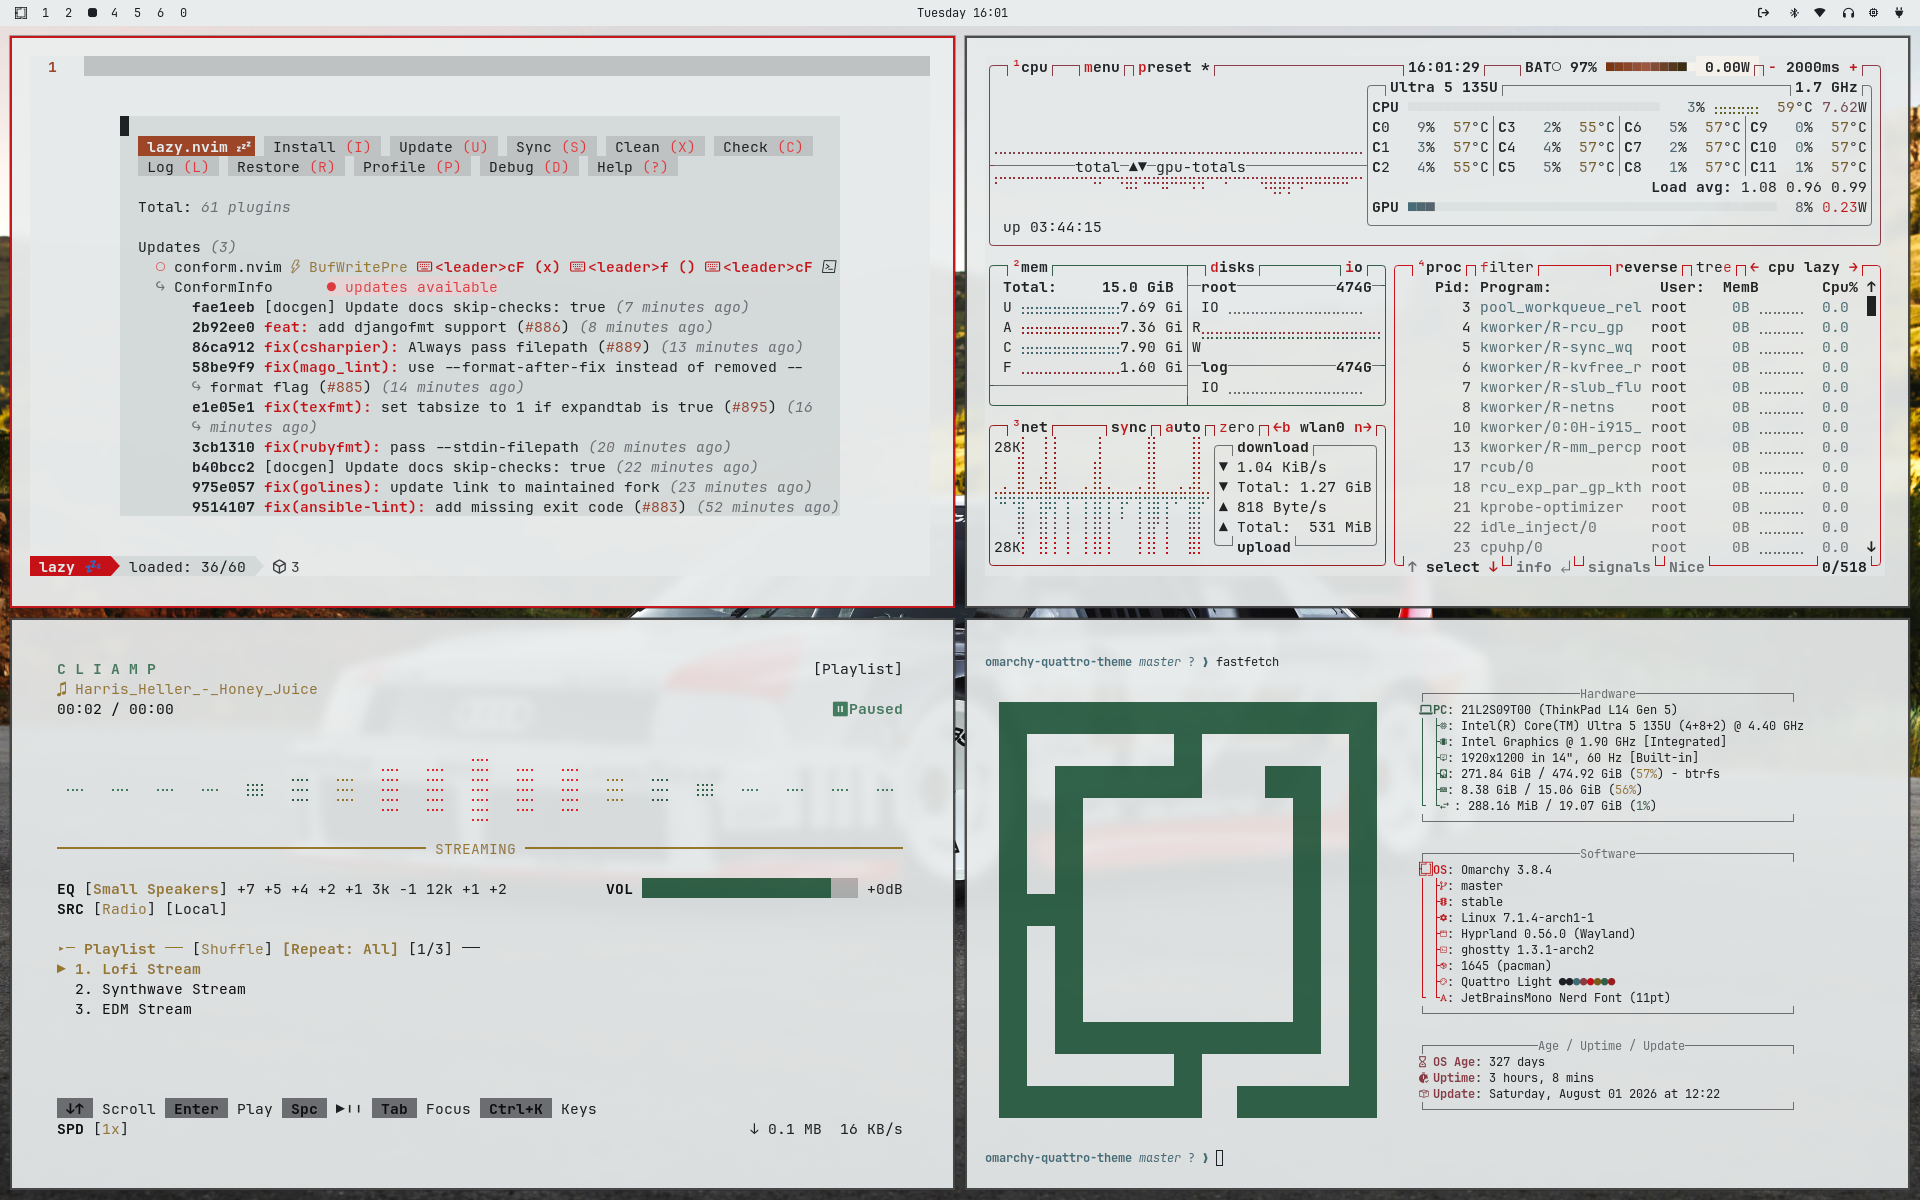
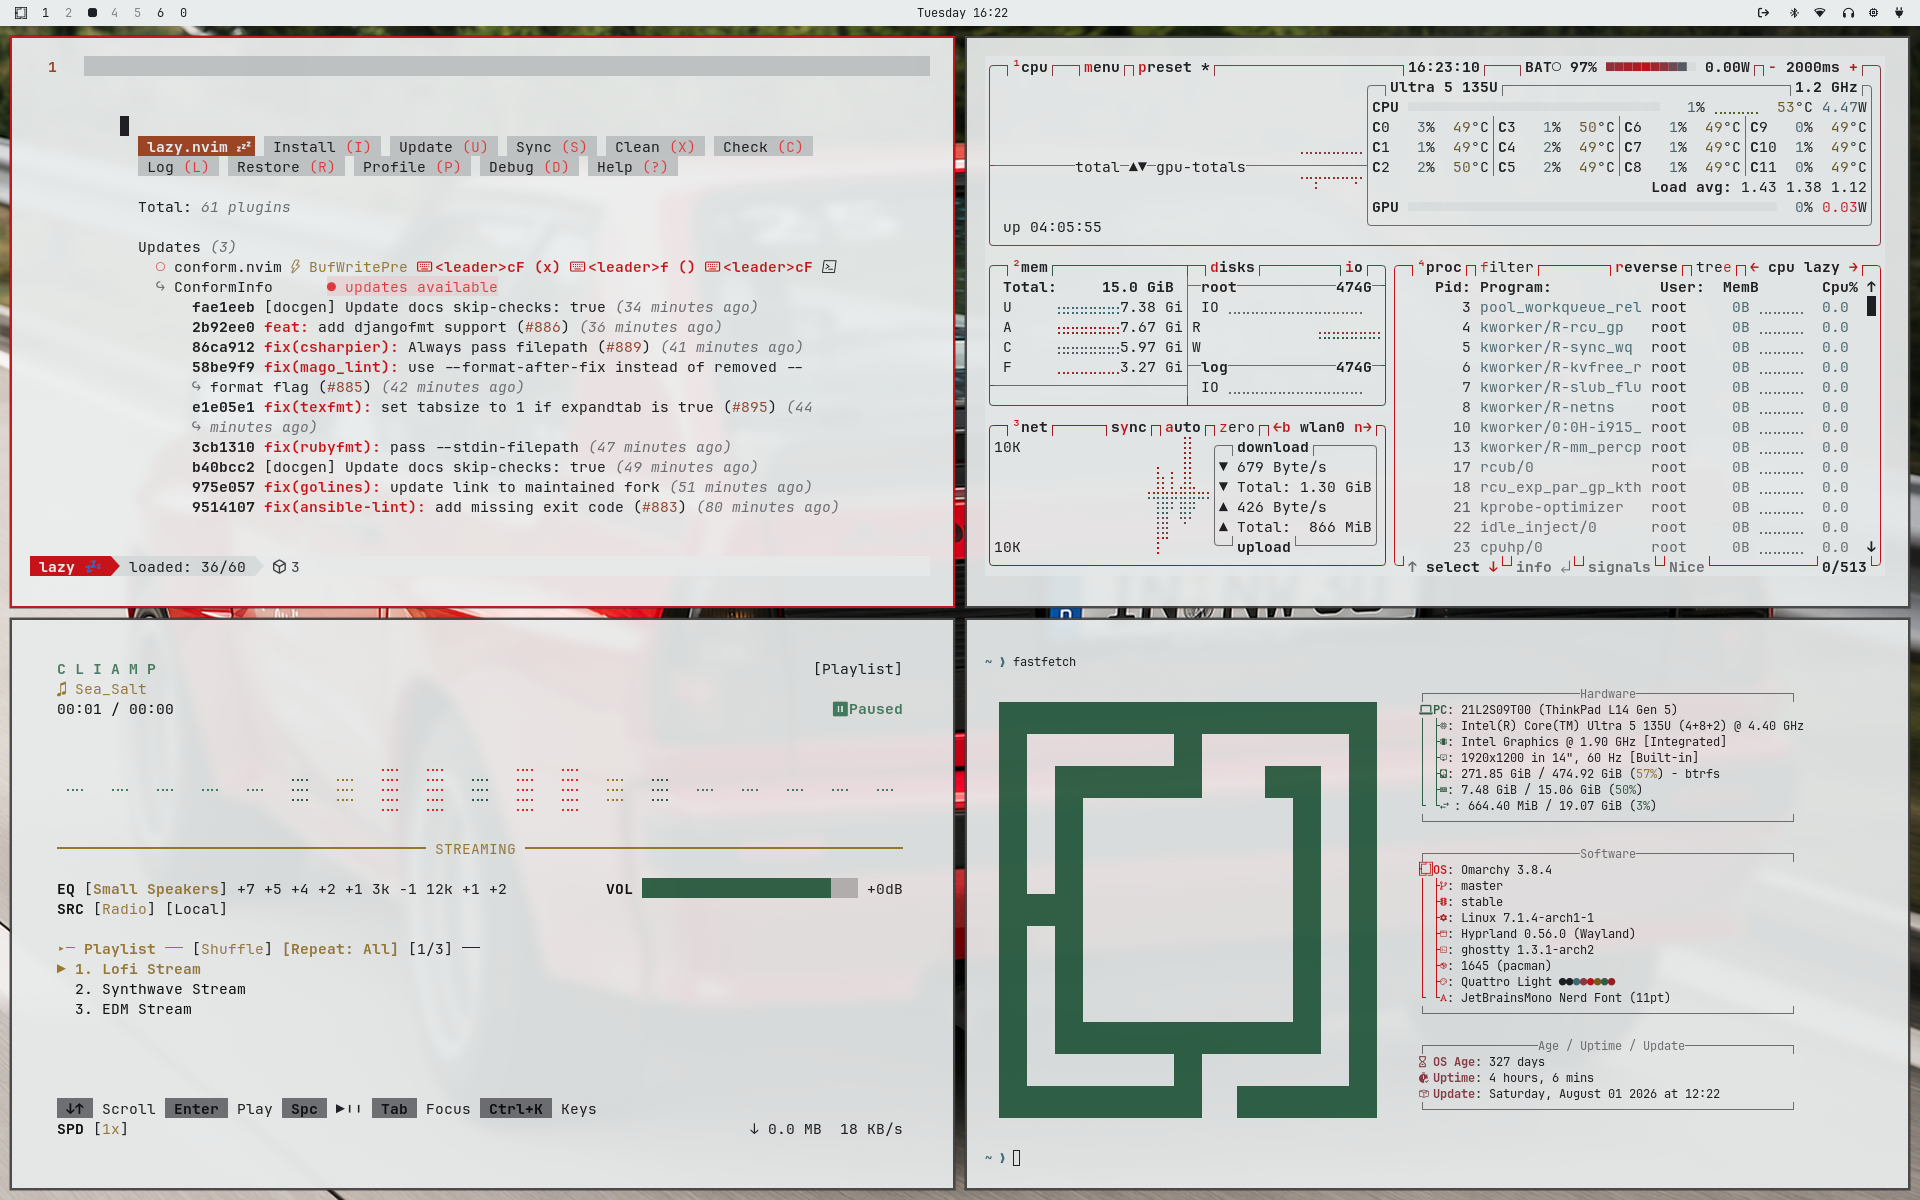
fix: keep chromium and gtk accents in the red family

diff --git a/gtk.css b/gtk.css
@@ -27,7 +27,7 @@
 /* Adwaita color overrides (libadwaita / GTK4) */
 @define-color accent_bg_color @blue;
 @define-color accent_fg_color @background;
-@define-color accent_color @cyan;
+@define-color accent_color @blue;
 
 @define-color window_bg_color @background;
 @define-color window_fg_color @foreground;

diff --git a/aether.override.css b/aether.override.css
@@ -46,7 +46,7 @@
 /* Adwaita Color Overrides */
 @define-color accent_bg_color @blue;
 @define-color accent_fg_color @bright_white;
-@define-color accent_color @cyan;
+@define-color accent_color @blue;
 
 @define-color window_bg_color @background;
 @define-color window_fg_color @foreground;
